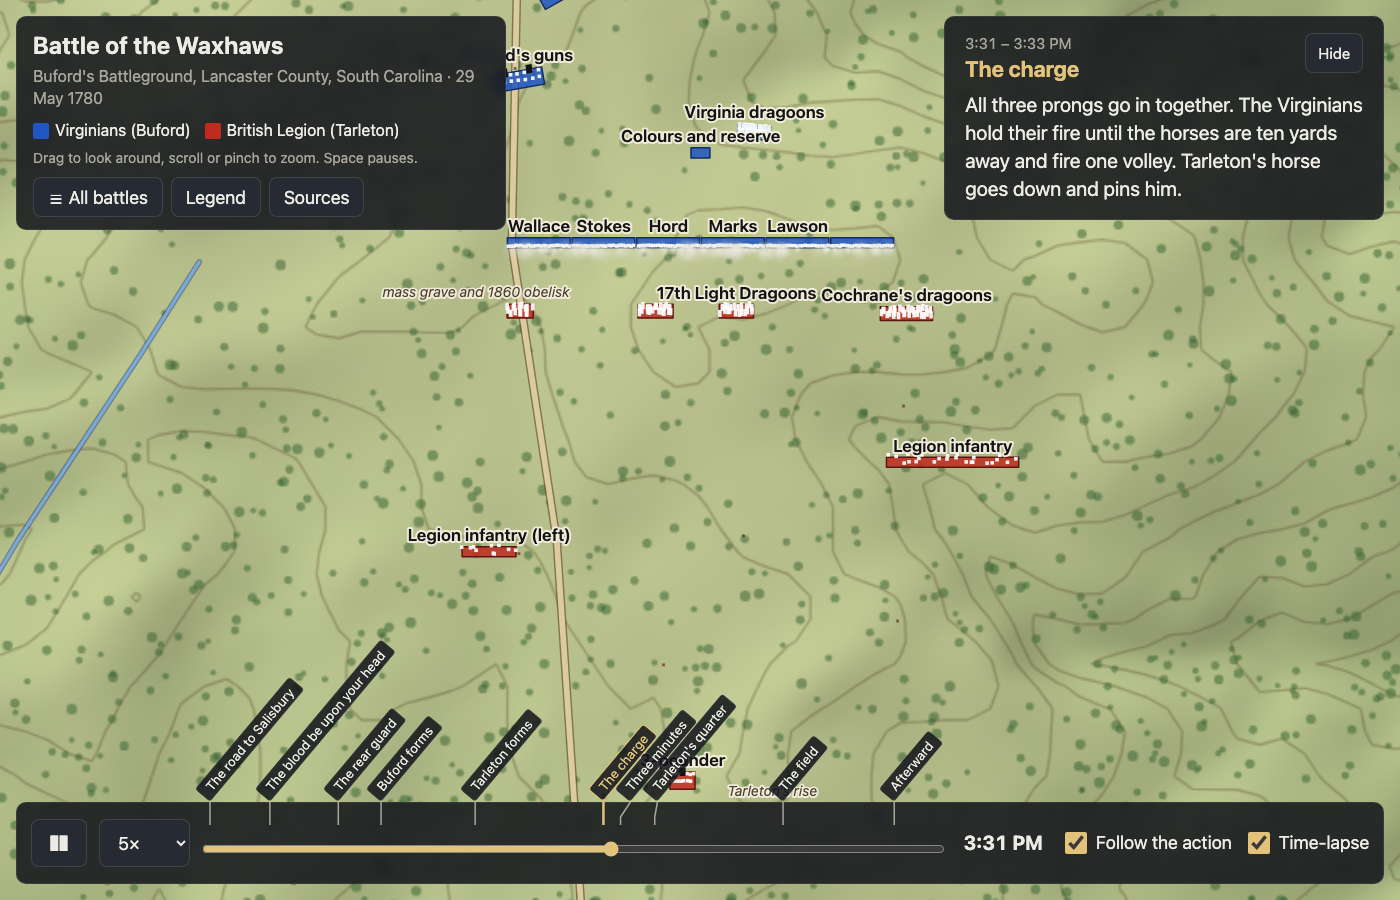
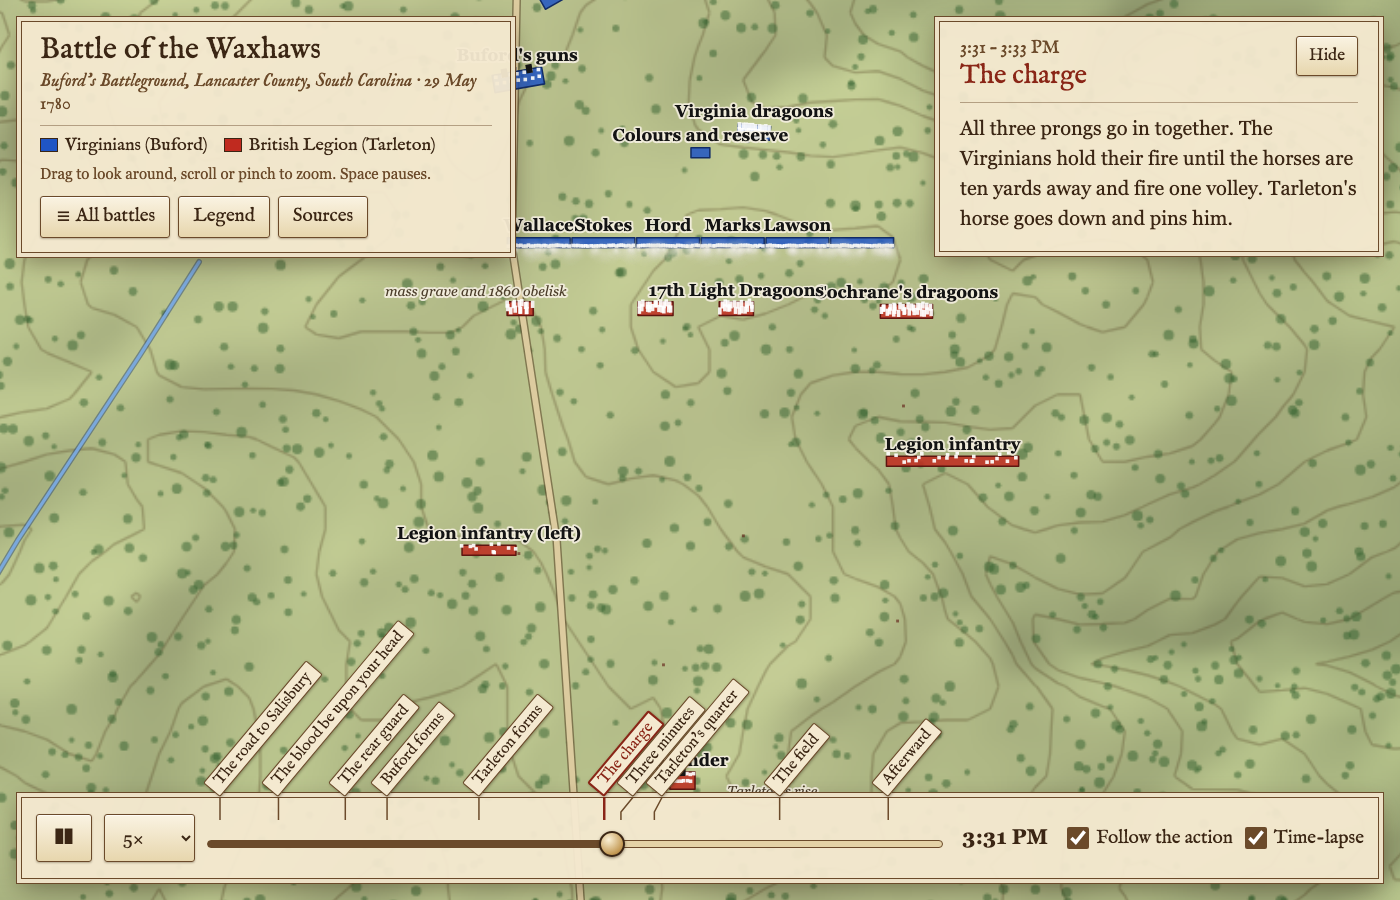
Battle screen in the start screen's parchment and ink
Panels, buttons, dialogs and chapter marks take the start screen's
parchment, ink double rules and IM Fell type. Reading text (story,
tooltips, clock, speed, map labels) is Georgia so it stays legible.
The scrubber is a ruled groove inked up to now with a brass knob.
Panels drop the backdrop blur, which cost a redraw of the map behind
them every frame.

Claude-Session: https://claude.ai/code/session_01US5GXUxojnCZWhZHcue3aU

diff --git a/index.html b/index.html
@@ -3,61 +3,76 @@
 <head>
 <meta charset="utf-8">
 <meta name="viewport" content="width=device-width, initial-scale=1, maximum-scale=1">
-<meta name="color-scheme" content="dark">
+<meta name="color-scheme" content="light">
 <title>Field Glass</title>
 <link rel="preconnect" href="https://fonts.googleapis.com">
 <link rel="preconnect" href="https://fonts.gstatic.com" crossorigin>
 <link rel="stylesheet" href="https://fonts.googleapis.com/css2?family=IM+Fell+English:ital@0;1&family=IM+Fell+English+SC&display=swap">
 <style>
-  :root { --panel: rgba(18, 20, 26, 0.86); --ink: #ecebe4; --muted: #a9a79c; --accent: #e3c27a; }
+  /* The battle screen wears the start screen's dress: parchment panels, ink double rules, Fell type for names, Georgia for reading. */
+  :root { --paper: rgba(244,233,208,0.95); --paper-solid: #f4e9d0; --ink: #3b2614; --muted: #6b4a2a; --rule: #6b4a2a; --accent: #8a2617;
+    --fell: "IM Fell English", Georgia, serif; --sc: "IM Fell English SC", Georgia, serif; --text: Georgia, "Times New Roman", serif;
+    --frame: 0 0 0 4px var(--paper), 0 0 0 5px var(--rule), 0 8px 24px rgba(40,25,10,0.45); }
   * { box-sizing: border-box; }
-  html, body { margin: 0; height: 100%; overflow: hidden; background: #0d0f14; color: var(--ink); font: 18px/1.4 system-ui, -apple-system, "Segoe UI", sans-serif; }
+  html, body { margin: 0; height: 100%; overflow: hidden; background: #2b2116; color: var(--ink); font: 18px/1.4 var(--text); }
   #map { position: fixed; inset: 0; touch-action: none; cursor: grab; }
   #map:active { cursor: grabbing; }
-  .panel { position: fixed; background: var(--panel); border: 1px solid rgba(255,255,255,0.08); border-radius: 10px; backdrop-filter: blur(6px); }
-  #top { left: 16px; top: 16px; padding: 12px 16px; max-width: min(490px, calc(100vw - 32px)); }
-  #top h1 { margin: 0; font-size: 24px; font-weight: 650; letter-spacing: 0.01em; }
-  #sub { color: var(--muted); font-size: 16px; margin-top: 2px; }
-  #hint { color: var(--muted); font-size: 14px; margin-top: 6px; }
-  #legend { display: flex; gap: 14px; flex-wrap: wrap; margin-top: 10px; font-size: 16px; }
-  #legend span { display: inline-flex; align-items: center; gap: 6px; }
-  #legend i { width: 16px; height: 16px; border-radius: 2px; display: inline-block; }
-  #top .row { display: flex; gap: 8px; margin-top: 10px; align-items: center; }
-  #top .row button { min-height: 40px; padding: 6px 14px; }
-  select, button { font: inherit; color: var(--ink); background: #262a33; border: 1px solid rgba(255,255,255,0.12); border-radius: 8px; padding: 8px 14px; min-height: 48px; }
+  .panel { position: fixed; background: var(--paper); border: 1px solid var(--rule); box-shadow: var(--frame); }
+  #top { left: 21px; top: 21px; padding: 12px 18px 14px; max-width: min(490px, calc(100vw - 42px)); }
+  #top h1 { margin: 0; font: 400 30px/1.1 var(--fell); letter-spacing: 0.01em; }
+  #sub { color: var(--muted); font: italic 18px/1.3 var(--fell); margin-top: 3px; }
+  #hint { color: var(--muted); font-size: 15px; margin-top: 6px; }
+  #legend { display: flex; gap: 16px; flex-wrap: wrap; margin-top: 8px; padding-top: 8px; border-top: 1px solid rgba(107,74,42,0.45); font: 18px var(--fell); }
+  #legend span { display: inline-flex; align-items: center; gap: 7px; }
+  #legend i { width: 18px; height: 14px; border: 1px solid var(--ink); display: inline-block; }
+  #top .row { display: flex; gap: 8px; margin-top: 12px; align-items: center; }
+  #top .row button { min-height: 42px; padding: 6px 14px; }
+  select, button { font: 19px/1.2 var(--fell); color: var(--ink); background: linear-gradient(#faf3e2, #e7d6ad); border: 1px solid var(--rule); border-radius: 3px; padding: 8px 14px; min-height: 48px;
+    box-shadow: inset 0 1px 0 rgba(255,255,255,0.7), 0 1px 2px rgba(40,25,10,0.3); }
   button { cursor: pointer; }
-  button:hover, select:hover { background: #30353f; }
+  button:hover, select:hover { background: linear-gradient(#fdf8ec, #efe0bb); }
+  button:active { background: #e2cea0; box-shadow: inset 0 2px 3px rgba(40,25,10,0.3); }
+  :focus-visible { outline: 2px solid var(--accent); outline-offset: 2px; }
   #hover { padding: 12px 16px; font-size: 17px; line-height: 1.45; width: 340px; pointer-events: none; }
-  #caption { right: 16px; top: 16px; transform: translateY(-8px); width: min(440px, calc(100vw - 32px)); max-height: calc(100vh - 160px); overflow-y: auto; padding: 16px 20px; opacity: 0; transition: opacity 0.4s, transform 0.4s; }
+  #hover b { font: 400 21px/1.2 var(--fell); }
+  #caption { right: 21px; top: 21px; transform: translateY(-8px); width: min(440px, calc(100vw - 42px)); max-height: calc(100vh - 170px); overflow-y: auto; padding: 14px 20px 18px; opacity: 0; transition: opacity 0.4s, transform 0.4s; scrollbar-color: var(--rule) transparent; }
   #caption.show { opacity: 1; transform: none; }
   .nofade #caption { transition: none; }
-  #cap-title { font-weight: 650; font-size: 22px; color: var(--accent); }
-  #cap-text { font-size: 20px; margin-top: 6px; }
+  #cap-title { font: 400 27px/1.15 var(--fell); color: var(--accent); }
+  #cap-text { font-size: 20px; line-height: 1.5; margin-top: 10px; padding-top: 10px; border-top: 1px solid rgba(107,74,42,0.45); }
   .cap-head { display: flex; gap: 12px; align-items: flex-start; justify-content: space-between; }
-  #cap-when { color: var(--muted); font-size: 15px; font-variant-numeric: tabular-nums; }
-  #cap-fold { flex: none; min-height: 40px; padding: 4px 12px; font-size: 15px; }
+  #cap-when { color: var(--muted); font: 19px/1.3 var(--sc); }
+  #cap-fold { flex: none; min-height: 40px; padding: 4px 12px; font-size: 17px; }
   #caption.folded #cap-text { display: none; }
-  #bar { left: 16px; right: 16px; bottom: 16px; padding: 10px 14px; display: flex; align-items: center; gap: 12px; }
+  #bar { left: 21px; right: 21px; bottom: 21px; padding: 10px 14px; display: flex; align-items: center; gap: 12px; }
   #play { width: 56px; min-width: 56px; font-size: 22px; }
+  #speed { font-family: var(--text); font-size: 18px; } /* Fell numerals read 10 as Io */
   #track { flex: 1; min-width: 80px; position: relative; padding-top: 12px; }
-  #scrub { display: block; width: 100%; accent-color: var(--accent); height: 48px; margin: 0; }
+  /* The scrubber: a ruled groove inked up to now (--p, set by the HUD), with a brass knob. */
+  #scrub { display: block; width: 100%; height: 48px; margin: 0; background: none; -webkit-appearance: none; appearance: none; cursor: pointer; }
+  #scrub::-webkit-slider-runnable-track { height: 8px; border: 1px solid var(--rule); border-radius: 4px; background: linear-gradient(var(--muted), var(--muted)) 0 / var(--p, 0%) 100% no-repeat, #e4d2a6; }
+  #scrub::-moz-range-track { height: 8px; border: 1px solid var(--rule); border-radius: 4px; background: #e4d2a6; }
+  #scrub::-moz-range-progress { height: 8px; border-radius: 4px; background: var(--muted); }
+  #scrub::-webkit-slider-thumb { -webkit-appearance: none; width: 26px; height: 26px; margin-top: -10px; border-radius: 50%; border: 2px solid var(--ink); background: radial-gradient(circle at 35% 30%, #fbf1d6, #c49a55 70%, #8a6430); box-shadow: 0 1px 3px rgba(40,25,10,0.5); }
+  #scrub::-moz-range-thumb { width: 22px; height: 22px; border-radius: 50%; border: 2px solid var(--ink); background: radial-gradient(circle at 35% 30%, #fbf1d6, #c49a55 70%, #8a6430); box-shadow: 0 1px 3px rgba(40,25,10,0.5); }
   /* Chapter marks: ticks inside the bar, leaders up to its top edge (23 px: marks + padding + border), labels slanting over the map. */
-  #marks { position: absolute; left: 8px; right: 8px; bottom: 48px; height: 12px; }
+  #marks { position: absolute; left: 13px; right: 13px; bottom: 48px; height: 12px; }
   #marks svg { position: absolute; left: 0; bottom: 0; width: 100%; height: 23px; overflow: visible; pointer-events: none; }
-  #marks path { fill: none; stroke: var(--muted); stroke-width: 1.5; } #marks path.on { stroke: var(--accent); stroke-width: 2.5; }
-  #marks button { position: absolute; bottom: 23px; min-height: 0; height: 20px; padding: 0 8px; border: 1px solid rgba(255,255,255,0.08); border-radius: 4px; background: var(--panel); color: var(--ink); font-size: 13px; line-height: 18px; white-space: nowrap; transform-origin: 0 100%; transform: rotate(-50deg); }
-  #marks button:hover, #marks button.on { color: var(--accent); } #marks button.on { border-color: var(--accent); }
-  #clock { font-variant-numeric: tabular-nums; min-width: 92px; text-align: center; font-weight: 700; font-size: 20px; white-space: nowrap; }
-  #bar label { display: inline-flex; align-items: center; gap: 6px; white-space: nowrap; }
-  #bar input[type=checkbox] { width: 22px; height: 22px; accent-color: var(--accent); }
-  dialog { background: #1a1d24; color: var(--ink); border: 1px solid rgba(255,255,255,0.12); border-radius: 12px; max-width: min(640px, calc(100vw - 32px)); max-height: calc(100vh - 32px); padding: 20px 24px; }
-  dialog::backdrop { background: rgba(0,0,0,0.55); }
-  dialog h2 { margin: 0 0 10px; font-size: 18px; }
-  dialog li { margin: 6px 0; }
-  #legend-dlg { max-width: min(900px, calc(100vw - 32px)); }
-  #legend-list { display: grid; grid-template-columns: auto 1fr; gap: 6px 12px; align-items: center; font-size: 16px; margin-bottom: 14px; }
-  #legend-list svg { display: block; }
-  #legend-hint { color: var(--muted); font-size: 15px; margin: 0 0 14px; }
+  #marks path { fill: none; stroke: var(--rule); stroke-width: 1.5; } #marks path.on { stroke: var(--accent); stroke-width: 2.5; }
+  #marks button { position: absolute; bottom: 23px; min-height: 0; height: 22px; padding: 0 8px; border-radius: 2px; background: var(--paper-solid); box-shadow: 0 1px 3px rgba(40,25,10,0.4); font-size: 16px; line-height: 20px; white-space: nowrap; transform-origin: 0 100%; transform: rotate(-50deg); }
+  #marks button:hover, #marks button.on { color: var(--accent); } #marks button.on { border-color: var(--accent); border-width: 2px; line-height: 18px; }
+  #clock { font-variant-numeric: tabular-nums lining-nums; min-width: 100px; text-align: center; font-size: 21px; font-weight: 700; white-space: nowrap; }
+  #bar label { display: inline-flex; align-items: center; gap: 7px; white-space: nowrap; font: 19px var(--fell); cursor: pointer; }
+  #bar input[type=checkbox] { width: 22px; height: 22px; margin: 0; accent-color: var(--muted); }
+  dialog { background: var(--paper-solid); color: var(--ink); border: 1px solid var(--rule); box-shadow: var(--frame); max-width: min(640px, calc(100vw - 42px)); max-height: calc(100vh - 42px); padding: 20px 26px; }
+  dialog::backdrop { background: rgba(30,18,8,0.55); }
+  dialog h2 { margin: 0 0 12px; font: 400 26px var(--sc); border-bottom: 1px solid rgba(107,74,42,0.5); }
+  dialog li { margin: 8px 0; line-height: 1.45; }
+  dialog a { color: var(--accent); }
+  #legend-dlg { max-width: min(900px, calc(100vw - 42px)); }
+  #legend-list { display: grid; grid-template-columns: auto 1fr; gap: 8px 12px; align-items: center; font-size: 17px; margin-bottom: 14px; }
+  #legend-list svg { display: block; border: 1px solid rgba(107,74,42,0.5); }
+  #legend-hint { color: var(--muted); font-size: 16px; font-style: italic; margin: 0 0 14px; }
   @media (min-width: 720px) { #legend-list { grid-template-columns: auto 1fr auto 1fr; } }
   #splash { position: fixed; inset: 0; z-index: 10; overflow-y: auto; background: #d9c49a; color: #3b2614; font-family: "IM Fell English", Georgia, serif; }
   #plan { position: fixed; inset: 0; width: 100%; height: 100%; object-fit: cover; }
@@ -66,21 +81,21 @@
   #splash h1 { margin: 0; font-weight: 400; font-size: 64px; line-height: 1; text-align: center; letter-spacing: 0.02em; }
   #splash .tag { text-align: center; font-style: italic; font-size: 21px; margin: 8px 0 18px; }
   #splash h2 { font-family: "IM Fell English SC", Georgia, serif; font-weight: 400; font-size: 20px; margin: 14px 0 4px; border-bottom: 1px solid rgba(59,38,20,0.5); }
-  #splash-list button { display: flex; align-items: baseline; width: 100%; min-height: 48px; padding: 8px 6px; border: 0; border-radius: 4px; background: none; color: inherit; font: inherit; font-size: 21px; text-align: left; }
+  #splash-list button { display: flex; align-items: baseline; width: 100%; min-height: 48px; padding: 8px 6px; border: 0; border-radius: 4px; background: none; box-shadow: none; color: inherit; font: inherit; font-size: 21px; text-align: left; }
   #splash-list button:hover, #splash-list button:focus-visible { background: rgba(107,74,42,0.14); }
   #splash-list i { flex: 1; min-width: 16px; margin: 0 8px; border-bottom: 2px dotted rgba(59,38,20,0.45); }
   #splash-list .rt { font-style: italic; white-space: nowrap; }
   #splash .foot { font-size: 16px; font-style: italic; margin: 16px 0 0; text-align: center; }
   @media (max-width: 640px) {
     #splash .card { padding: 20px 16px; margin-left: auto; } #splash h1 { font-size: 44px; } #splash .tag { font-size: 18px; } #splash-list button { font-size: 18px; }
-    #top { left: 12px; right: 12px; top: 12px; max-width: none; padding: 10px 12px; }
-    #top h1 { font-size: 18px; } #sub { font-size: 14px; } #hint, #legend { display: none; }
-    select, button { min-height: 44px; padding: 6px 10px; font-size: 16px; }
+    #top { left: 17px; right: 17px; top: 17px; max-width: none; padding: 8px 12px 10px; }
+    #top h1 { font-size: 22px; } #sub { font-size: 15px; } #hint, #legend { display: none; }
+    select, button { min-height: 44px; padding: 6px 10px; font-size: 17px; }
     #hover { display: none; }
-    #bar { left: 12px; right: 12px; bottom: 12px; gap: 5px; padding: 8px 6px; } #bar label span { display: none; } #speed { padding: 6px 2px 6px 6px; }
+    #bar { left: 17px; right: 17px; bottom: 17px; gap: 5px; padding: 8px 6px; } #bar label span { display: none; } #speed { padding: 6px 2px 6px 6px; }
     #play { width: 48px; min-width: 48px; font-size: 20px; } #clock { min-width: 0; font-size: 15px; }
     #track { min-width: 30px; padding-top: 0; } #marks { display: none; } /* no room for chapters on a phone's scrubber */
-    #caption { top: auto; bottom: 88px; left: 12px; right: 12px; width: auto; max-height: 40vh; padding: 10px 14px; } #cap-title { font-size: 18px; } #cap-text { font-size: 16px; }
+    #caption { top: auto; bottom: 96px; left: 17px; right: 17px; width: auto; max-height: 40vh; padding: 10px 14px; } #cap-title { font-size: 21px; } #cap-when { font-size: 15px; } #cap-text { font-size: 17px; margin-top: 6px; padding-top: 6px; }
   }
 </style>
 </head>

diff --git a/app.js b/app.js
@@ -186,7 +186,7 @@ const smokeSprite = (() => {
 function label(text, x, y, rot, color, size, italic, bold) {
   ctx.save(); ctx.translate(x, y);
   if (rot) ctx.rotate((-rot * Math.PI) / 180);
-  ctx.font = `${italic ? 'italic ' : ''}${bold ? '600 ' : ''}${size}px system-ui, sans-serif`;
+  ctx.font = `${italic ? 'italic ' : ''}${bold ? '600 ' : ''}${size}px Georgia, serif`;
   ctx.textAlign = 'center'; ctx.textBaseline = 'middle';
   ctx.lineWidth = 4; ctx.strokeStyle = 'rgba(245,240,225,0.9)'; ctx.strokeText(text, 0, 0);
   ctx.fillStyle = color; ctx.fillText(text, 0, 0);
@@ -230,7 +230,7 @@ function step(dt) {
 
 function draw() {
   ctx.setTransform(DPR, 0, 0, DPR, 0, 0);
-  ctx.fillStyle = '#0d0f14'; ctx.fillRect(0, 0, W, H);
+  ctx.fillStyle = '#2b2116'; ctx.fillRect(0, 0, W, H);
   const half = B.extent / 2;
   ctx.imageSmoothingEnabled = true;
   ctx.drawImage(layer, w2sx(-half), w2sy(half), B.extent * cam.zoom, B.extent * cam.zoom);
@@ -317,7 +317,7 @@ function drawUnits() {
   }
   // Bigger units get their label first; a label that would overlap one already placed is dropped this frame.
   for (const l of labels.sort((a, b) => b.men - a.men)) {
-    ctx.font = `${l.size}px system-ui, sans-serif`;
+    ctx.font = `${l.size}px Georgia, serif`;
     const w = ctx.measureText(l.text).width + 6, h = l.size + 4, r = [l.x - w / 2, l.y - h / 2, l.x + w / 2, l.y + h / 2];
     if (placed.some(q => r[0] < q[2] && r[2] > q[0] && r[1] < q[3] && r[3] > q[1])) continue;
     placed.push(r);
@@ -400,7 +400,7 @@ function buildMarks(b) {
   layoutMarks();
 }
 function layoutMarks() {
-  const tw = ui.marks.clientWidth, dur = B.endT - B.startT, gap = 27; // a 20 px pill at 50° clears its neighbour at 27 px (27·sin 50° > 20)
+  const tw = ui.marks.clientWidth, dur = B.endT - B.startT, gap = 29; // a 22 px pill at 50° clears its neighbour at 29 px (29·sin 50° > 22)
   const px = B.events.map(ev => ((ev.t - B.startT) / dur) * tw);
   const k = Math.max(1, Math.ceil((marks.length * gap) / Math.max(1, tw))); // too many for the width: label every k-th
   const idx = [...marks.keys()].filter(i => i % k === 0), ax = idx.map(i => px[i]);
@@ -466,8 +466,8 @@ function buildLegend(b) {
 // ---------- hud and controls ----------
 
 function updateHud() {
-  ui.clock.textContent = (playing && lapsing ? '⏩ ' : '') + fmtTime(t);
-  ui.scrub.value = t;
+  ui.clock.textContent = (playing && lapsing ? '» ' : '') + fmtTime(t);
+  ui.scrub.value = t; ui.scrub.style.setProperty('--p', `${((t - B.startT) / (B.endT - B.startT)) * 100}%`);
   if (curEvent !== shownEvent) {
     shownEvent = curEvent;
     ui.capTitle.textContent = curEvent?.title ?? '';
